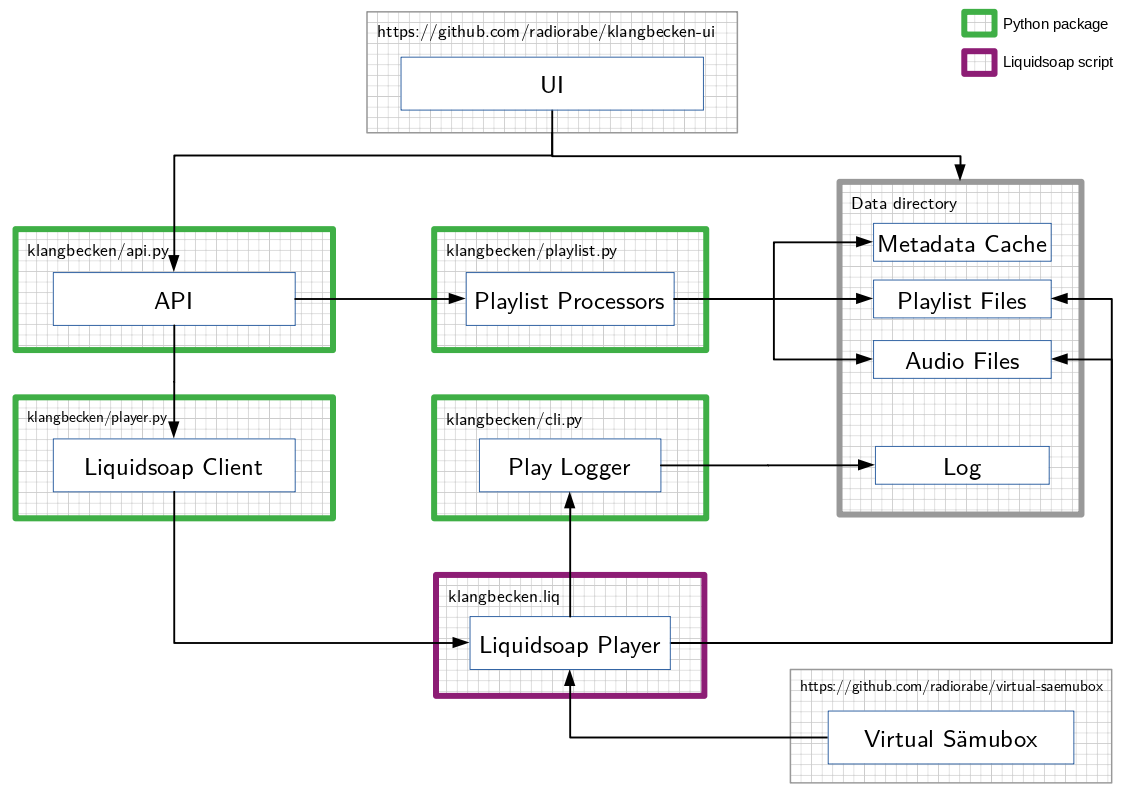
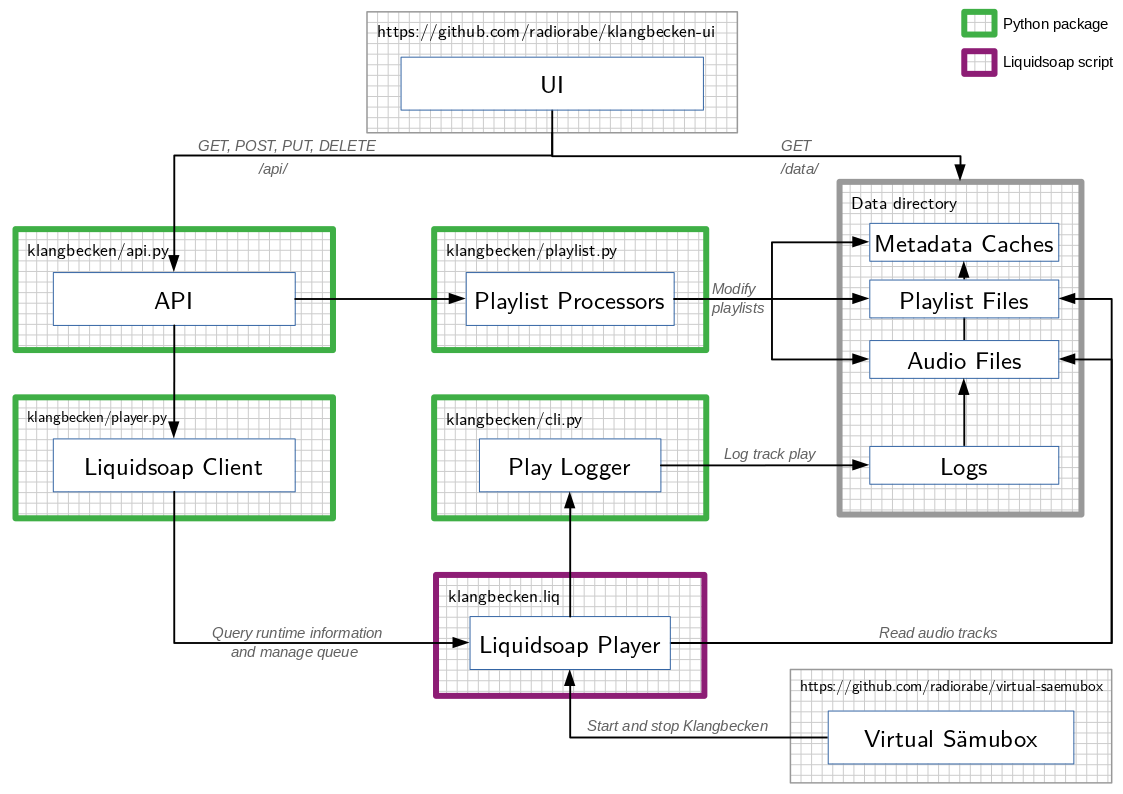
docs: wording and spelling corrections and updated system overview

diff --git a/klangbecken/settings.py b/klangbecken/settings.py
@@ -29,7 +29,7 @@ ISO8601_TZ_AWARE_RE = (
 #   (e.g. lambda x: x > 0 for positive numbers)
 # - String interpreted as a regular expression. The checked values are
 #   expected to be strings. (e.g. r"[1-9][0-9]{3}" for four digit zip codes)
-# - List or tuple cotaining an arbitrary combination of the above.
+# - List or tuple containing an arbitrary combination of the above.
 #
 # Note: The checks are evaluated in their specified order.
 METADATA = {

diff --git a/klangbecken/api_utils.py b/klangbecken/api_utils.py
@@ -283,7 +283,7 @@ class JWTAuthorizationMiddleware:
      - /auth/renew/ for renewing an existing token
 
     Tokens are short-lived and are valid for only 15 minutes, but expired tokens
-    can be renewed during one week starting from their initial issueing date.
+    can be renewed during one week starting from their initial issuing date.
     """
 
     def __init__(

diff --git a/klangbecken/playlist.py b/klangbecken/playlist.py
@@ -423,7 +423,7 @@ _mutagenLock = threading.Lock()
 def locked_open(path):
     """Lock a file for writing.
 
-    Serialize write access to file from other threads and processes.
+    Serialize write access to file from other threads *and* processes.
     """
     if path not in _locks:
         _locks[path] = threading.Lock()

diff --git a/README.md b/README.md
@@ -2,22 +2,22 @@
 
 [![Python package](https://github.com/radiorabe/klangbecken/workflows/Python%20package/badge.svg)](https://github.com/radiorabe/klangbecken/actions?query=workflow%3A%22Python+package%22)
 [![Liquidsoap script](https://github.com/radiorabe/klangbecken/workflows/Liquidsoap%20script/badge.svg)](https://github.com/radiorabe/klangbecken/actions?query=workflow%3A%22Liquidsoap+script%22)
-[![Codestyle Black](https://img.shields.io/badge/code%20style-black-000000.svg)](https://github.com/psf/black)
+[![Code Style Black](https://img.shields.io/badge/code%20style-black-000000.svg)](https://github.com/psf/black)
 
 _Klangbecken_ is the minimalistic endless music player for Radio Bern RaBe based on [liquidsoap](https://www.liquidsoap.info).
 
 It supports configurable and editable playlists, jingle insertion, metadata publishing and more.
 
-It is [designed](doc/design.md) for stand-alone operation, robustness and easy maintainability. All files are stored in a single [data directory](doc/data-dir.md).
+It is [designed](doc/design.md) for stand-alone operation, robustness and good maintainability. All data is stored in common files in a single [data directory](doc/data-dir.md).
 
 This repository contains three components of the RaBe Klangbecken:
 * The [API](doc/api.md)
 * The [command line interface](doc/cli.md)
-* The [liquidsoap playout script](klangbecken.liq)
+* The [liquidsoap play-out script](klangbecken.liq)
 
 Two additional components are in their own repository:
 * The listener for the current "on air" status, the [virtual Sämubox](https://github.com/radiorabe/virtual-saemubox).
-* The web-based [UI](https://github.com/radiorabe/klangbecken-ui) for playlist editing.
+* The [web-based UI](https://github.com/radiorabe/klangbecken-ui) for playlist editing.
 
 How they interact can be seen in the [system overview diagram](doc/system-overview.png):
 
@@ -28,7 +28,7 @@ How they interact can be seen in the [system overview diagram](doc/system-overvi
 * **Python** (>= v3.7)
   * *docopt* library for parsing command line arguments
   * *Werkzeug* library (>= v2.0) for WSGI support
-  * *PyJWT* library (>= v2.0) for creating and verifing JWT authentication tokens
+  * *PyJWT* library (>= v2.0) for creating and verifying JWT authentication tokens
   * *mutagen* library for audio tag editing
 * **ffmpeg** binary (>= v2.8) for audio analysis
 * **Liquidsoap** audio player (v1.3 _without_ inotify support)
@@ -102,7 +102,7 @@ eval $(opam env)
 liquidsoap klangbecken.liq
 ```
 
-Manually set the onair status of the player using `netcat`:
+Manually set the on-air status of the player using `netcat`:
 ```bash
 echo "klangbecken.on_air True" | nc -U -w 1 klangbecken.sock
 ```
@@ -110,7 +110,7 @@ echo "klangbecken.on_air True" | nc -U -w 1 klangbecken.sock
 
 ## Development
 
-For contributing to this project, fork this repository, and clone your local working copy from your personal fork. Push commits to your repository to create a pull request with your changes.
+For contributing to this project, fork this repository, and clone your local working copy from your personal fork. Push commits to your repository to create pull requests with your changes.
 
 ### Python Package
 
@@ -172,13 +172,13 @@ liquidsoap --check klangbecken.liq
 
 #### Simulation
 
-Apart from type checking, the inherent nature of the liquidsoap language generating a live audio stream makes it difficult to test the code with unit tests. Observing the behavior of the player script and the effects of changes in real-time take lot of time, usually weeks or even months. [Accellerated simulation runs](doc/simulation.md) help to observe the long-time player behavior in a reasonable amount of time.
+Apart from type checking, the inherent nature of the liquidsoap language generating a live audio stream makes it difficult to test the code with unit tests. Observing the behavior of the player script and the effects of changes in real-time take lot of time, usually weeks or even months. [Accelerated simulation runs](doc/simulation.md) help to observe the long-time player behavior in a reasonable amount of time.
 
 ## Deployment
 
-Your code has passed continuous integration, and your pull request has been accepted. Now you want to deploy your (or somebody else's) code to production. First, some preparation is necessary, but then the deployment script `deploy.sh` automates most of the work deploying the code.
+Your code has passed continuous integration, and your pull request has been accepted. Now you want to deploy your (or somebody else's) code to production. First, some preparations are necessary, but then the deployment script `deploy.sh` automates most of the work deploying the code.
 
-_Preparation before deploying for the first time:_
+_Preparations before deploying for the first time:_
 * Make sure that you have access to the production server (e.g. SSH publik key authentication).
 * Configure a remote `prod` pointing at the repository on the production system:
   ```bash
@@ -188,7 +188,7 @@ _Preparation before deploying for the first time:_
   ```bash
   yum install httpd-devel
   ```
-* Configure a remote repository `upstream` pointing at this upstream repository:
+* Configure a remote repository `upstream` pointing at the upstream repository:
   ```bash
   git remote add upstream git@github.com:radiorabe/klangbecken-ui.git
   ```
@@ -220,7 +220,7 @@ _Run the script:_
 ```bash
 ./deploy.sh [--no-mod-wsgi]
 ```
-It perfoms the following steps:
+It performs the following steps:
 - Increment and commit a new version number.
 - Download all run-time dependencies.
 - Optionally download `mod_wsgi` (Requires `httpd-devel` libraries to be installed locally. Use `--no-mod-wsgi` to skip this step).
@@ -242,4 +242,4 @@ For detailed information on how to setup a productive server see [Deployment](do
 
 ## License
 
-_Klangbecken_ is released under the terms of the GNU Affero General Public License. Copyright 2017-2021 Radio RaBe. See `LICENSE` for further information.
+_Klangbecken_ is released under the terms of the GNU Affero General Public License. Copyright 2017-2022 Radio Bern RaBe. See `LICENSE` for further information.
